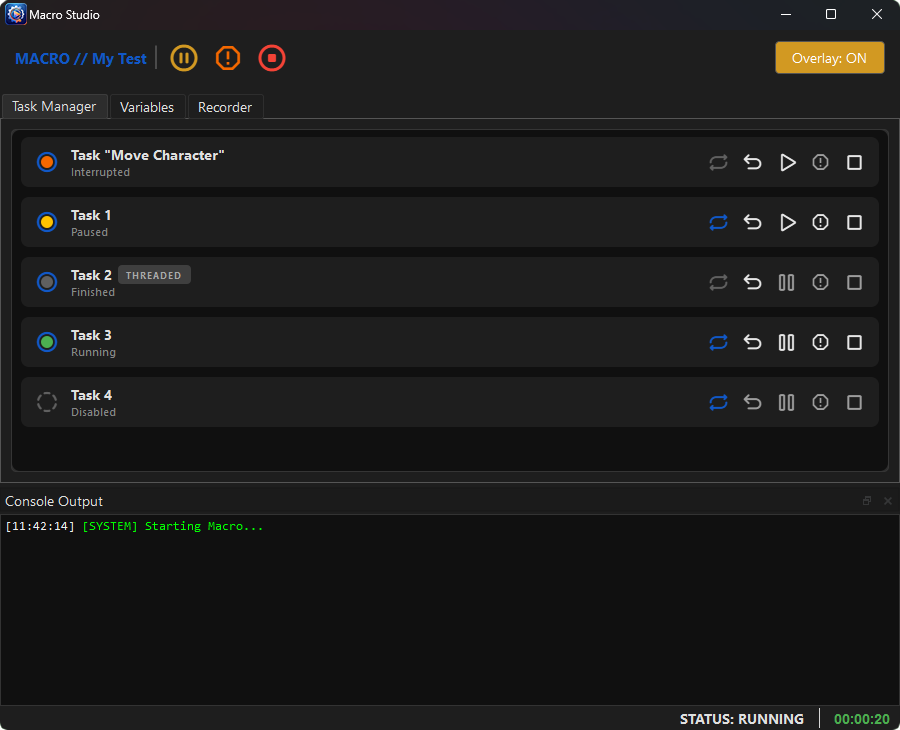
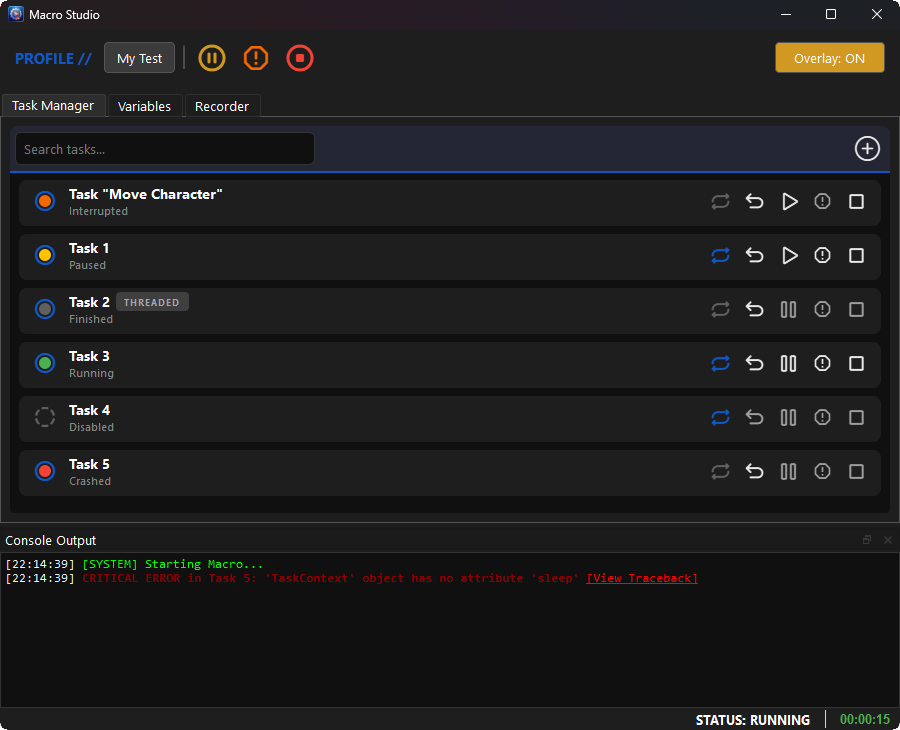
Converted studio addRunTask to studio addBasicTask, updated README
Made task search work lol.

Updated task manager picture

Moved database into appdata

diff --git a/macro_studio/ui/tabs/task_manager_tab.py b/macro_studio/ui/tabs/task_manager_tab.py
@@ -20,7 +20,7 @@ class TaskManagerTab(QWidget):
         self.main_window = main_window
 
         self.task_selector = SelectorPopup(parent=self, read_only=True)
-        self.task_selector.empty_state.default_title = "No tasks available"
+        self.task_selector.empty_state.default_title = "No Tasks Available"
         self.task_selector.empty_state.default_action_txt = "View Recorder Tab"
         self.task_selector.addSortMode("Alphabetical (A to Z)", lambda t: t.name.lower())
         self.task_selector.addSortMode("Alphabetical (Z to A)", lambda t: t.name.lower(), reverse=True)
@@ -114,7 +114,11 @@ class TaskManagerTab(QWidget):
                 if isinstance(controller.name, str):
                     new_row.removeRequested.connect(self._onRequestDelete)
 
+        search_text = self.header.search_bar.text().lower().strip()
+
         stale_keys = []
+        visible_count = 0
+
         for task_key, row_widget in self.task_rows.items():
             if task_key not in active_controllers:
                 # The task was removed from the engine. Destroy the UI row.
@@ -122,13 +126,36 @@ class TaskManagerTab(QWidget):
                 row_widget.deleteLater()
                 stale_keys.append(task_key)
             else:
-                # The task still exists. Trigger its color/button update!
+                controller = active_controllers[task_key]
                 row_widget.updateUi()
 
-        if not self.task_rows:
-            self.empty_state.show()
-        else:
-            self.empty_state.hide()
+                # Simulate the UI prefix to ensure "Task " searches match properly
+                display_name = f"task {str(controller.name).lower()}"
+
+                # Filter visibility
+                if search_text in display_name:
+                    row_widget.show()
+                    visible_count += 1
+                else:
+                    row_widget.hide()
 
         for key in stale_keys:
             del self.task_rows[key]
+
+        if not active_controllers:
+            # The list is completely empty
+            self.empty_state.defaultState(
+                subtitle="There are no tasks to display",
+                btn_text="Add Recorded Task"
+            )
+            self.empty_state.show()
+        elif visible_count == 0:
+            # Tasks exist, but the search filtered them all out
+            self.empty_state.setupState(
+                icon_name="ph.magnifying-glass",
+                title="No Matches Found",
+                subtitle=f"We couldn't find any tasks named '{self.header.search_bar.text()}'"
+            )
+            self.empty_state.show()
+        else:
+            self.empty_state.hide()

diff --git a/macro_studio/core/execution/task_worker.py b/macro_studio/core/execution/task_worker.py
@@ -20,7 +20,7 @@ def _handleTasksOnHard(controller: "TaskController", notified_tasks: set):
     notified_tasks.add(controller)
     if not controller.isInterrupted():
         # Throw if not in notified already
-        return was_in_notified or controller.throwInterruptedError(True)
+        return was_in_notified or not controller.isAlive() or controller.throwInterruptedError(True)
     return controller.isAlive()
 
 class TaskWorker(QThread):
@@ -137,7 +137,9 @@ class TaskWorker(QThread):
             controller.stop(by_worker=True)
 
         for entry in active_snapshot:
-            entry[3].stop(by_worker=True)
+            controller = entry[3]
+            if controller.isAlive():
+                controller.stop(by_worker=True)
 
     def _onRunEnd(self):
         # Handle when run loop ends

diff --git a/macro_studio/ui/widgets/task_manager/task_row_widget.py b/macro_studio/ui/widgets/task_manager/task_row_widget.py
@@ -195,13 +195,13 @@ class TaskRowWidget(QFrame):
                 display_text = "Interrupted (Waiting for Engine)"
             state_color = "#F46800"
 
-        elif current_state == TaskState.PAUSED or worker_paused:
-            display_text = "Paused" if not worker_paused else "Paused (Waiting for Engine)"
-            state_color = "#FFC300"
-
         elif current_state == TaskState.CRASHED:
             display_text = "Crashed"
             state_color = "#f44336"
+
+        elif current_state == TaskState.PAUSED or worker_paused:
+            display_text = "Paused" if not worker_paused else "Paused (Waiting for Engine)"
+            state_color = "#FFC300"
 
         elif not worker_running:
             display_text = "Ready (Waiting for Engine)"

diff --git a/macro_studio/core/data/database_manager.py b/macro_studio/core/data/database_manager.py
@@ -56,8 +56,15 @@ class DatabaseManager:
         return cls._instance
 
     def getConn(self):
-        db_path = os.path.join(os.getcwd(), self.DB_NAME)
-        os.makedirs(os.path.dirname(db_path), exist_ok=True)
+        if os.name == 'nt':  # Windows
+            base_dir = os.getenv('APPDATA')
+        else:
+            base_dir = os.path.expanduser('~/.config')
+
+        app_dir = os.path.join(base_dir, "MacroStudio")
+        os.makedirs(app_dir, exist_ok=True)
+        db_path = os.path.join(app_dir, self.DB_NAME)
+
         conn = sqlite3.connect(db_path)
         conn.execute("PRAGMA foreign_keys = ON;")
         conn.row_factory = sqlite3.Row

diff --git a/Examples/basic_macro.py b/Examples/basic_macro.py
@@ -23,10 +23,10 @@ class BasicMacro:
 
         # Register the tasks so the engine knows about them.
         # We store the controller for 'anotherTask' so we can manipulate it later.
-        self.other_task_ctrl = studio.addRunTask(anotherTask)
+        self.other_task_ctrl = studio.addBasicTask(anotherTask)
 
         # Register our main coordination task
-        studio.addRunTask(self.mainCoordinator)
+        studio.addBasicTask(self.mainCoordinator)
 
     def mainCoordinator(self, controller: Controller):
         """

diff --git a/macro_studio/core/execution/engine.py b/macro_studio/core/execution/engine.py
@@ -52,7 +52,7 @@ class MacroStudio:
         var_config = self._profile.vars.get(key)
         return var_config and var_config.value or None
 
-    def addRunTask(self, task_func: TaskFunc, *args, enabled=True, repeat=False, **kwargs) -> Controller:
+    def addBasicTask(self, task_func: TaskFunc, *args, enabled=True, repeat=False, **kwargs) -> Controller:
         """
         Add a basic task function to run when executing macros.
         Args:

diff --git a/Examples/threaded_macro.py b/Examples/threaded_macro.py
@@ -41,7 +41,7 @@ class ThreadMacro:
 
         # Add run tasks to the creator
         self.thread_task_controller = creator.addThreadTask(_taskInThread)
-        self.pauser_controller = creator.addRunTask(self.threadHardPauser)
+        self.pauser_controller = creator.addBasicTask(self.threadHardPauser)
 
     def threadHardPauser(self, controller):
         # Let's attempt to interrupt the threaded task!

diff --git a/macro_studio/ui/widgets/recorder/timeline.py b/macro_studio/ui/widgets/recorder/timeline.py
@@ -145,7 +145,7 @@ class DroppableTimelineWidget(QListWidget):
         self.empty_state = EmptyStateWidget(self.viewport())
         self.empty_state.setupState(
             icon_name="ph.film-strip",
-            title="Timeline is empty",
+            title="Timeline is Empty",
             subtitle="Drag actions from the palette to start building your task"
         )
 

diff --git a/macro_studio/ui/widgets/standalone/selector.py b/macro_studio/ui/widgets/standalone/selector.py
@@ -399,7 +399,7 @@ class SelectorPopup(QDialog):
             if search_text:
                 self.empty_state.setupState(
                     "ph.magnifying-glass",
-                    "No matches found",
+                    "No Matches Found",
                     f"We couldn't find anything for '{search_text}'"
                 )
             elif self.isReadOnly():

diff --git a/macro_studio/ui/tabs/variables_tab.py b/macro_studio/ui/tabs/variables_tab.py
@@ -77,7 +77,7 @@ class VariablesTab(QWidget):
         self.empty_state = EmptyStateWidget()
         self.empty_state.setupState(
             icon_name="msc.variable-group",
-            title="No variables yet",
+            title="No Variables Yet",
             subtitle="Click below to create your first variable",
             btn_text="Create Variable"
         )

diff --git a/Examples/interrupt_pause_macro.py b/Examples/interrupt_pause_macro.py
@@ -86,6 +86,6 @@ def runSafeTask(controller: Controller):
 if __name__ == '__main__':
     studio = MacroStudio("Database Updater Macro")
 
-    studio.addRunTask(runSafeTask)
+    studio.addBasicTask(runSafeTask)
 
     studio.launch()

diff --git a/README.md b/README.md
@@ -4,12 +4,18 @@
 
 **Limitless automation, powered by Python.**
 
-The **Python Macro Studio** is a robust automation framework that bridges the gap between simple macro recorders and complex software development. Unlike traditional click-recorders, this engine allows you to script logic in pure Python, giving you access to the full power of the language, from computer vision (OpenCV) to API requests while managing the lifecycle of your tasks through a user-friendly GUI.
+The **Macro Studio** is a robust automation framework that bridges the gap between simple macro recorders and complex software development. Unlike traditional click-recorders, this engine allows you to script logic in pure Python, giving you access to the full power of the language, from computer vision (OpenCV) to API requests while managing the lifecycle of your tasks through a user-friendly GUI.
 
 ## 🚀 Key Features
 
 ### ♾ Infinite Possibilities
 If you can code it in Python, you can automate it. Import any library, use complex logic, and interact with the OS at a deep level. You are not limited to "click here, wait 5 seconds."
+
+### 📂 Profile Management
+Manage multiple configurations with ease. Profiles allow:
+* **Environment Isolation:** Create specific profiles for different use cases, each with its own set of variable values.
+* **Task Persistence:** Save the enabled/disabled states and repeat toggles of your recorded tasks.
+* **Quick Swapping:** Switch between different automation setups instantly without having to re-recording tasks.
 
 ### 🎛 Visual Task Manager
 ![Task Manager UI](docs/assets/TaskManager.png)
@@ -24,7 +30,9 @@ The Visual Task Manager is the central orchestration hub of the studio. It provi
 ### 🧩 Variable Management
 ![Variables UI](docs/assets/VariablesTab.png) 
 
-Predefine variables (Integers, Booleans, Regions, Points, etc.) that are exposed in the GUI. Users can tweak settings (like `click_spot` or `scan_area`) safely via the interface without ever touching the code.
+Define variables (Integers, Booleans, Regions, Points, etc.) that are exposed in the GUI. Users can tweak settings (like `click_spot` or `scan_area`) safely via the interface without ever touching the code. 
+
+These values are **saved per-profile**, allowing you to maintain different configurations for the same tasks across different environments.
 
 As of right now, the engine supports complex types like `QRect` (Regions) and `QPoint` (Coordinates) with visual overlays, ensuring users don't have to guess pixel coordinates (but they still can if they want to)!
 
@@ -35,7 +43,7 @@ The entry barrier is now lowered! Using the `Recorder` tab, users can:
 
 * **Record:** Create new tasks by simply recording your mouse and keyboard actions, no coding required.
 * **Edit:** Fine-tune your recorded actions directly in the Engine's GUI (change delays, adjust coordinates) without opening a text editor.
-
+* **Global Task Pool:** Recorded tasks are created globally. You can then use the Task Manager to selectively add, remove, or toggle these tasks within specific profiles, allowing for modular automation design.
 
 ### 🧬 Extensible Type System
 
@@ -69,7 +77,7 @@ def my_task():
 class BasicMacro:
     def __init__(self, studio):
         # Add the task to the studio
-        studio.addRunTask(my_task, repeat=True)
+        studio.addBasicTask(my_task, repeat=True)
 
 ```
 
@@ -79,12 +87,14 @@ When you add a task using `addRunTask`, the engine returns a **Task Controller**
 
 ```python
     def __init__(self, studio):
+
+
     self.studio = studio
-    # Save the controller to a variable
-    self.worker_ctrl = studio.addRunTask(self.my_task)
-    # Add a variable so the user can choose to sleep "my_task" or not and set the default value to "True"
-    studio.addVar("Sleep My Task", bool, True, "Sleeps My Task On Execute")
-    studio.addRunTask(self.manager_task)
+# Save the controller to a variable
+self.worker_ctrl = studio.addBasicTask(self.my_task)
+# Add a variable so the user can choose to sleep "my_task" or not and set the default value to "True"
+studio.addVar("Sleep My Task", bool, True, "Sleeps My Task On Execute")
+studio.addBasicTask(self.manager_task)
 
 
 def manager_task(self, controller: Controller):
@@ -124,22 +134,25 @@ class ThreadMacro:
 
 ### 4. Passing Custom Arguments
 Your task functions aren't limited to just the `controller`. You can pass any custom arguments and keyword arguments directly through the engine router to make your tasks dynamic and reusable!
+
 ```python
 from macro_studio import MacroStudio, Controller, taskSleep
+
 
 # Define a dynamic task
 def farm_resource(controller: Controller, resource_name: str, farm_duration: int):
     controller.log(f"Starting to farm {resource_name}...")
-    
+
     # Use the custom arguments in your logic
     yield from taskSleep(farm_duration)
     controller.log(f"Finished farming {resource_name}!")
 
+
 studio = MacroStudio("Farm Macro")
 
 # Queue the same task multiple times with different arguments!
-studio.addRunTask(farm_resource, "Gold", farm_duration=60)
-studio.addRunTask(farm_resource, "Wood", farm_duration=120)
+studio.addBasicTask(farm_resource, "Gold", farm_duration=60)
+studio.addBasicTask(farm_resource, "Wood", farm_duration=120)
 
 ```
 
